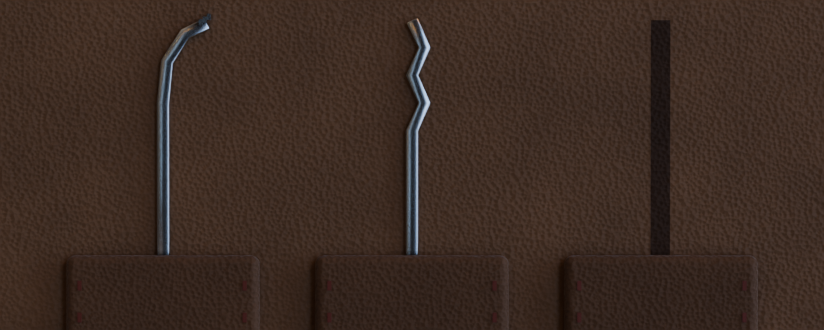
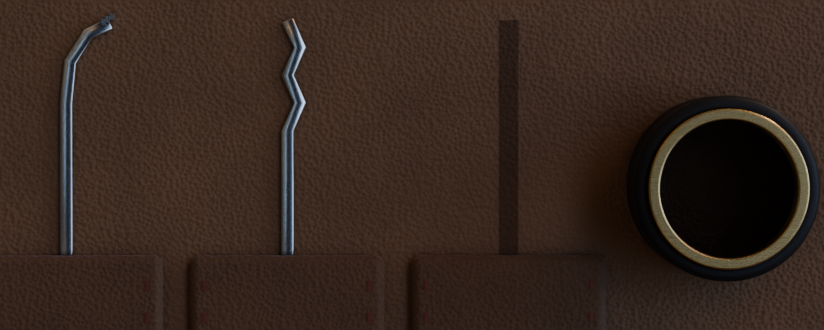
Model tools as stamped flat stock with polished round tips; calmer machining marks; render script
Claude-Session: https://claude.ai/code/session_01VMe8ZZtUr6dRAXPfeAryZ3

diff --git a/art/blender/lw_common.py b/art/blender/lw_common.py
@@ -25,8 +25,8 @@ def node_mat(name, base, metallic, rough, rough_var=0.06, aniso=0.0, scratch=0.0
         # face-milling arcs: large-radius rings ~1.4 mm apart, plus fine stretched noise (lathe/grind)
         mp = n.new('ShaderNodeMapping'); mp.inputs['Location'].default_value = (-60, 0, 25)
         l.new(tc.outputs['Object'], mp.inputs['Vector'])
-        wv = n.new('ShaderNodeTexWave'); wv.wave_type = 'RINGS'; wv.inputs['Scale'].default_value = 2.4
-        wv.inputs['Distortion'].default_value = 5.0; wv.inputs['Detail'].default_value = 6; wv.inputs['Detail Scale'].default_value = 2
+        wv = n.new('ShaderNodeTexWave'); wv.wave_type = 'RINGS'; wv.inputs['Scale'].default_value = 6.0
+        wv.inputs['Distortion'].default_value = 1.2; wv.inputs['Detail'].default_value = 6; wv.inputs['Detail Scale'].default_value = 2
         l.new(mp.outputs['Vector'], wv.inputs['Vector'])
         mp2 = n.new('ShaderNodeMapping'); mp2.inputs['Scale'].default_value = (0.05, 1, 3.0)
         l.new(tc.outputs['Object'], mp2.inputs['Vector'])
@@ -34,10 +34,10 @@ def node_mat(name, base, metallic, rough, rough_var=0.06, aniso=0.0, scratch=0.0
         l.new(mp2.outputs['Vector'], fn.inputs['Vector'])
         mx = n.new('ShaderNodeMix'); mx.data_type = 'FLOAT'; mx.inputs['Factor'].default_value = 0.5
         l.new(wv.outputs['Fac'], mx.inputs['A']); l.new(fn.outputs['Fac'], mx.inputs['B'])
-        mix = n.new('ShaderNodeMix'); mix.data_type = 'FLOAT'; mix.inputs['Factor'].default_value = scratch * 0.28
+        mix = n.new('ShaderNodeMix'); mix.data_type = 'FLOAT'; mix.inputs['Factor'].default_value = scratch * 0.16
         l.new(rough_out, mix.inputs['A']); l.new(mx.outputs['Result'], mix.inputs['B'])
         rough_out = mix.outputs['Result']
-        bump = n.new('ShaderNodeBump'); bump.inputs['Strength'].default_value = 0.025 * scratch; bump.inputs['Distance'].default_value = 0.02
+        bump = n.new('ShaderNodeBump'); bump.inputs['Strength'].default_value = 0.012 * scratch; bump.inputs['Distance'].default_value = 0.02
         l.new(mx.outputs['Result'], bump.inputs['Height']); l.new(bump.outputs['Normal'], bsdf.inputs['Normal'])
     # grime in crevices: ambient occlusion darkens base colour
     ao = n.new('ShaderNodeAmbientOcclusion'); ao.inputs['Distance'].default_value = 0.8
@@ -45,7 +45,7 @@ def node_mat(name, base, metallic, rough, rough_var=0.06, aniso=0.0, scratch=0.0
     dark = n.new('ShaderNodeMix'); dark.data_type = 'RGBA'; dark.blend_type = 'MULTIPLY'; dark.inputs['Factor'].default_value = 0.55
     l.new(ao.outputs['Color'], dark.inputs['A']); l.new(ao.outputs['AO'], dark.inputs['B'])
     if scratch > 0:
-        tone = n.new('ShaderNodeMapRange'); tone.inputs['To Min'].default_value = 0.9; tone.inputs['To Max'].default_value = 1.0
+        tone = n.new('ShaderNodeMapRange'); tone.inputs['To Min'].default_value = 0.95; tone.inputs['To Max'].default_value = 1.0
         l.new(mx.outputs['Result'], tone.inputs['Value'])
         tint = n.new('ShaderNodeMix'); tint.data_type = 'RGBA'; tint.blend_type = 'MULTIPLY'; tint.inputs['Factor'].default_value = 1.0
         l.new(dark.outputs['Result'], tint.inputs['A']); l.new(tone.outputs['Result'], tint.inputs['B'])
@@ -148,17 +148,39 @@ def spring(name, x, z0, z1, coils, r=1.15, wire=0.22, y=1.5):
     o = bpy.data.objects.new(name, cu); bpy.context.collection.objects.link(o); o.data.materials.append(M['spring']); return o
 
 
-def flat_tool(name, path, height, thick, y, mat='pick'):
-    # build a ribbon mesh along an XZ polyline, then solidify
-    bm = bmesh.new(); prev = None; verts = []
-    pts = [Vector((x, y, z)) for x, z in path]
-    for i, p in enumerate(pts):
-        d = (pts[min(i + 1, len(pts) - 1)] - pts[max(i - 1, 0)]).normalized(); nrm = Vector((-d.z, 0, d.x))
-        verts.append((bm.verts.new(p + nrm * height / 2), bm.verts.new(p - nrm * height / 2)))
-    for (a, b), (c, d) in zip(verts, verts[1:]): bm.faces.new((a, b, d, c))
+def _catmull(pts, n=12):
+    """Smooth a polyline (list of Vector) with centripetal-ish Catmull-Rom, n samples per segment."""
+    P = [pts[0]] + pts + [pts[-1]]; out = []
+    for i in range(1, len(P) - 2):
+        p0, p1, p2, p3 = P[i - 1], P[i], P[i + 1], P[i + 2]
+        for k in range(n):
+            t = k / n; t2 = t * t; t3 = t2 * t
+            out.append(0.5 * ((2 * p1) + (-p0 + p2) * t + (2 * p0 - 5 * p1 + 4 * p2 - p3) * t2 + (-p0 + 3 * p1 - 3 * p2 + p3) * t3))
+    out.append(pts[-1]); return out
+
+def flat_tool(name, path, height, thick, y, mat='pick', tip='round'):
+    """Stamped flat-stock tool (pick blade, tension wrench): smooth centreline in XZ, constant height,
+    rounded polished tip, extruded `thick` along Y, edges eased with a small harden-normals bevel."""
+    c = _catmull([Vector((x, 0, z)) for x, z in path])
+    left, right = [], []
+    for i, p in enumerate(c):
+        d = (c[min(i + 1, len(c) - 1)] - c[max(i - 1, 0)]).normalized(); nrm = Vector((-d.z, 0, d.x))
+        left.append(p + nrm * height / 2); right.append(p - nrm * height / 2)
+    outline = left[:]
+    if tip == 'round':  # semicircular cap at the working end
+        d = (c[-1] - c[-2]).normalized(); nrm = Vector((-d.z, 0, d.x))
+        for k in range(1, 12):
+            a = math.pi * k / 12
+            outline.append(c[-1] + nrm * math.cos(a) * height / 2 + d * math.sin(a) * height / 2)
+    outline += right[::-1]
+    bm = bmesh.new()
+    vs = [bm.verts.new((v.x, y - thick / 2, v.z)) for v in outline]
+    f = bm.faces.new(vs)
+    ext = bmesh.ops.extrude_face_region(bm, geom=[f])
+    for v in [g for g in ext['geom'] if isinstance(g, bmesh.types.BMVert)]: v.co.y += thick
+    bmesh.ops.recalc_face_normals(bm, faces=bm.faces)
     me = bpy.data.meshes.new(name); bm.to_mesh(me); bm.free()
     o = bpy.data.objects.new(name, me); bpy.context.collection.objects.link(o)
-    s = o.modifiers.new('sol', 'SOLIDIFY'); s.thickness = thick; s.offset = 0
-    b = o.modifiers.new('bev', 'BEVEL'); b.width = min(thick, height) * 0.3; b.segments = 2
-    me.materials.append(M[mat]); smooth(o); return o
-
+    b = o.modifiers.new('bev', 'BEVEL'); b.width = min(thick, height) * 0.22; b.segments = 3; b.limit_method = 'ANGLE'; b.angle_limit = math.radians(50); b.harden_normals = True
+    for poly in me.polygons: poly.use_smooth = True
+    me.materials.append(M[mat]); return o

diff --git a/art/blender/cutaway.py b/art/blender/cutaway.py
@@ -72,13 +72,13 @@ pin('e_drv', PINS_X[4], KP_FLOOR + 4.2, 4.0); spring('e_spr', PINS_X[4], KP_FLOO
 
 # ---------------------------------------------------------------- tools: tension wrench + hook pick (spring steel, flat)
 # hook pick: shaft along keyway, slight bend under stress, hook under pin c
-hook = [(-46, -3.4), (-30, -3.35), (-10, -3.2), (2, -3.0), (8, -2.75), (11.2, -2.2), (12.4, -1.2), (12.8, cz - 0.15)]
-flat_tool('pick', hook, 1.0, 0.5, 0.6)
+hook = [(-46, -3.6), (-25, -3.55), (-5, -3.45), (5, -3.3), (9.5, -3.05), (11.6, -2.5), (12.5, -1.4), (12.85, cz - 0.55)]
+flat_tool('pick', hook, 1.1, 0.55, 0.6)
 # pick handle (outside the door, off to the left)
 h = box('pick_handle', -60, -44, 0.1, 2.2, -4.6, -2.2); link(h, M['handle']); bevel(h, 0.5)
 # tension wrench: short leg in the bottom of the keyway, long leg down along the door face
-wr = [(4.0, -4.7), (-3.0, -4.7), (-4.4, -5.4), (-5.0, -7.0), (-5.0, -40)]
-flat_tool('wrench', wr, 1.5, 0.7, 0.4)
+wr = [(4.0, -4.6), (-3.2, -4.6), (-4.3, -4.9), (-4.9, -5.8), (-5.0, -7.2), (-5.0, -40)]
+flat_tool('wrench', wr, 1.5, 0.75, 0.4, tip='flat')
 
 # ---------------------------------------------------------------- door + escutcheon (section)
 door = box('door', 0.0, 44, 0, 24, -60, 60)
@@ -120,7 +120,8 @@ cam.location = target + Vector((math.sin(yaw) * dist, -math.cos(yaw) * dist * ma
 cam.rotation_euler = (target - cam.location).to_track_quat('-Z', 'Y').to_euler()
 cam_d.dof.use_dof = True; cam_d.dof.focus_distance = dist; cam_d.dof.aperture_fstop = 16
 if SHOT == 'loupe':  # macro through the loupe: shear line at pin c
-    target = Vector((PINS_X[2], 0.0, SHEAR)); dist = 42; cam_d.lens = 180
+    tx, tz = [float(v) for v in arg('--target', '%f,%f' % (PINS_X[2], SHEAR)).split(',')]
+    target = Vector((tx, 0.0, tz)); dist = float(arg('--dist', '42')); cam_d.lens = 180
     cam.location = target + Vector((math.sin(yaw) * dist, -math.cos(yaw) * dist * math.cos(pitch), math.sin(pitch) * dist))
     cam.rotation_euler = (target - cam.location).to_track_quat('-Z', 'Y').to_euler()
     cam_d.dof.focus_distance = dist; cam_d.dof.aperture_fstop = 5.6; AIM.location = target
